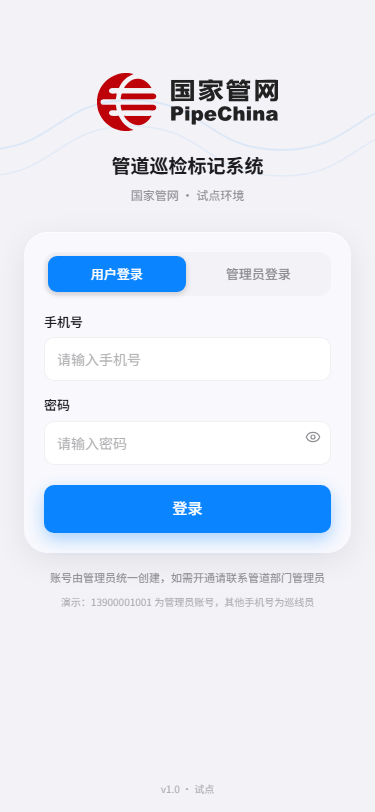
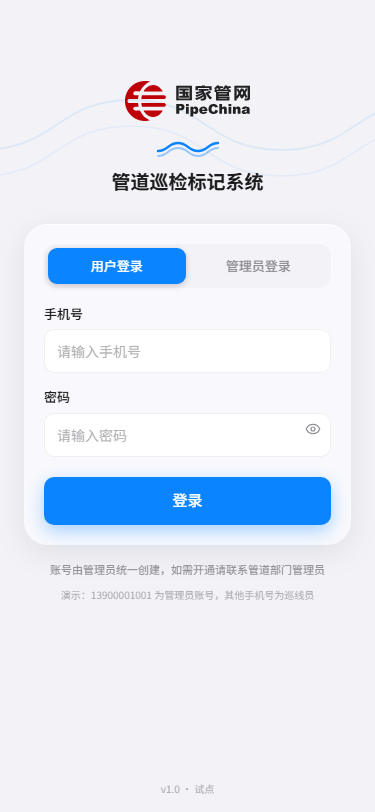
add modifications

diff --git a/frontend/src/components/ui/MapGlyphs.tsx b/frontend/src/components/ui/MapGlyphs.tsx
@@ -1,5 +1,5 @@
 import { useId } from 'react'
-import { Crosshair, Info, TriangleAlert, Waves } from 'lucide-react'
+import { Info, TriangleAlert, Waves } from 'lucide-react'
 import { cn } from '@/lib/cn'
 import type { KeypointType, MarkKind } from '@/lib/mock/types'
 
@@ -84,7 +84,7 @@ export function MarkPin({
   const color = kind === 'alert' ? '#FF3B30' : '#0A84FF'
   const height = Math.round((size * 32) / 24)
   const mark = glyph ?? kind
-  const Icon = mark === 'alert' ? TriangleAlert : mark === 'info' ? Info : Crosshair
+  const Icon = mark === 'alert' ? TriangleAlert : Info
   /** 只有「真正的警告标记」才做脉冲：自由落点不是告警，不该被误读成异常 */
   const isAlert = mark === 'alert'
 
@@ -128,11 +128,19 @@ export function MarkPin({
           className="absolute left-1/2 flex -translate-x-1/2 items-center justify-center text-white"
           style={{ top: size * 0.21, width: size * 0.5, height: size * 0.5 }}
         >
-          <Icon
-            size={size * 0.42}
-            strokeWidth={2.6}
-            className={isAlert ? 'animate-alert-pulse' : undefined}
-          />
+          {mark === 'free' ? (
+            /* 自由落点：只有一颗白圆点，和「选点」的语义一致，不借警告/信息符号 */
+            <i
+              className="rounded-full bg-white"
+              style={{ width: size * 0.28, height: size * 0.28 }}
+            />
+          ) : (
+            <Icon
+              size={size * 0.42}
+              strokeWidth={2.6}
+              className={isAlert ? 'animate-alert-pulse' : undefined}
+            />
+          )}
         </span>
       </span>
     </span>

diff --git a/frontend/src/pages/LoginPage.tsx b/frontend/src/pages/LoginPage.tsx
@@ -67,15 +67,32 @@ export default function LoginPage() {
       </svg>
 
       <div className="relative z-10 mx-auto flex w-full max-w-[380px] flex-1 flex-col">
-        <header className="pt-[9vh] text-center">
+        <header className="pt-[10vh] text-center">
           <img
             src="/pipechina.svg"
             alt="国家管网"
-            className="mx-auto h-[58px] w-auto select-none"
+            className="mx-auto h-[40px] w-auto select-none"
             draggable={false}
           />
-          <h1 className="mt-5 text-[19px] font-semibold text-ink">管道巡检标记系统</h1>
-          <p className="mt-1.5 text-[12px] text-ink-2">国家管网 · 试点环境</p>
+          {/* 品牌线：双道波纹，接住 logo 与标题之间的一段留白 */}
+          <svg viewBox="0 0 64 22" className="mx-auto mt-4 h-[22px] w-[64px]" aria-hidden>
+            <path
+              d="M2 14 C 12 14, 12 6, 22 6 S 32 14, 42 14 S 52 6, 62 6"
+              fill="none"
+              stroke="#0A84FF"
+              strokeWidth="2.4"
+              strokeLinecap="round"
+            />
+            <path
+              d="M2 19 C 12 19, 12 11, 22 11 S 32 19, 42 19 S 52 11, 62 11"
+              fill="none"
+              stroke="#0A84FF"
+              strokeOpacity="0.4"
+              strokeWidth="2"
+              strokeLinecap="round"
+            />
+          </svg>
+          <h1 className="mt-2 text-[19px] font-semibold text-ink">管道巡检自由标记系统</h1>
         </header>
 
         <form onSubmit={submit} className="glass mt-7 p-5">

diff --git a/frontend/src/components/layout/AdminLayout.tsx b/frontend/src/components/layout/AdminLayout.tsx
@@ -44,9 +44,12 @@ export function AdminLayout({ breadcrumb, children, padded = true }: AdminLayout
       {/* 左导航：240px 实色，不用玻璃 */}
       <aside className="flex w-[240px] shrink-0 flex-col border-r border-card-line bg-admin-nav">
         <div className="flex h-14 items-center gap-2 px-5">
-          <span className="flex size-7 items-center justify-center rounded-[8px] bg-info text-white">
-            <Waypoints size={15} strokeWidth={2} />
-          </span>
+          <img
+            src="/shape_logo.svg"
+            alt="国家管网"
+            className="h-7 w-auto shrink-0 select-none"
+            draggable={false}
+          />
           <span className="text-[13px] font-semibold text-ink">管道巡检管理后台</span>
         </div>
 

diff --git a/frontend/index.html b/frontend/index.html
@@ -2,7 +2,7 @@
 <html lang="zh-CN">
   <head>
     <meta charset="UTF-8" />
-    <link rel="icon" type="image/svg+xml" href="/vite.svg" />
+    <link rel="icon" type="image/svg+xml" href="/shape_logo.svg" />
     <meta
       name="viewport"
       content="width=device-width, initial-scale=1.0, viewport-fit=cover"

diff --git a/.workbuddy/memory/2026-11-19.md b/.workbuddy/memory/2026-11-19.md
@@ -125,3 +125,9 @@
 - 截图容器法（`public/__frame.html`，用完即删）：iframe + `transform:scale(s) translate(-ox,-oy)` 可放大指定区域；**直接 `--window-size=375` 配 DPR 2 会让布局视口变宽导致截图错位**，必须走容器页。
 - **无头 Chrome 的虚拟时间不推进 CSS animation**，动画只能看到 0% 帧（脉冲环 0% 藏在图钉头部后面），验证几何要临时把尺寸写死成终态再截图。
 - 产物：`rev-login.png`、`rev-login-admin.png`、`rev-map-desktop.png`、`rev-map-mobile.png`、`rev-pick.png`、`rev-admin.png`。
+
+## 第七批·修订（用户反馈）
+
+- 自由落点图标由十字准星改为**一颗白圆点**（`MarkPin` 的 `glyph==='free'` 分支直接渲染 `<i class="rounded-full bg-white">`，不再引 lucide 图标）。
+- 后台左上角 `AdminLayout` 蓝色方底 + Waypoints 换成 `shape_logo.svg`（h-7）；`index.html` favicon 由 `/vite.svg` 改为 `/shape_logo.svg`。注意 `Waypoints` 仍被 NAV 的「关键点台账」使用，删 import 会报 TS2304。
+- 登录页：logo 58→40px，删掉副标题「国家管网 · 试点环境」，把上一轮被我删掉的**双道蓝色波纹**（64×22 那个 header svg）加回到 logo 与标题之间——背景那两条大曲线一直都在，被删的是这个头部小图标。
